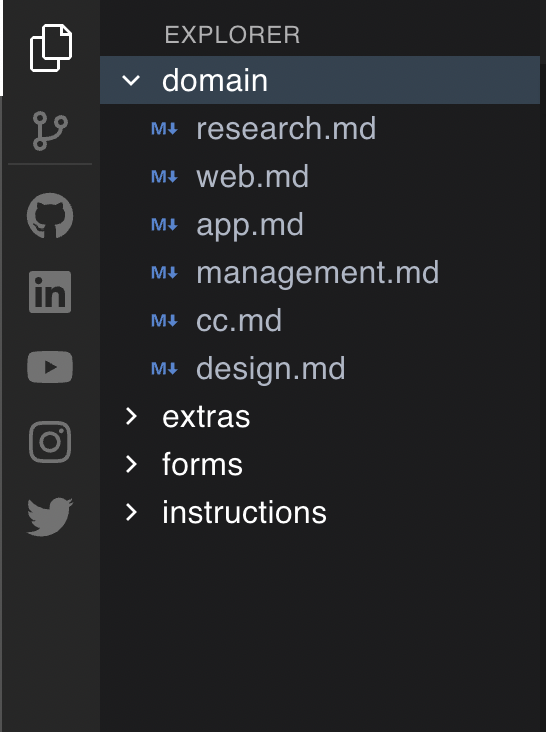
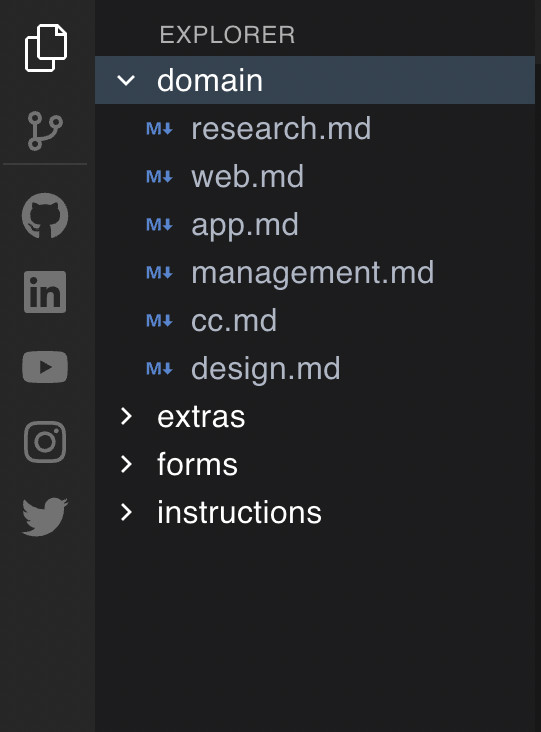
images changed

diff --git a/app/content.ts b/app/content.ts
@@ -284,7 +284,7 @@ In the bottom left corner of your screen, you will see three icons: <br>
 Your ACM journey begins with the **ACM Mainframe Terminal.** <br> <br>
 
 1. Click on the last icon \`Terminal\` on the bottom-left corner of the website. <br><br>
-![Alt text](/terminal.jpg)
+![Alt text](/terminal.png)
 
 2. As requested, you can see all the commands at your disposal using \`help\` <br><br>
 ![Alt text](/help.png)
@@ -297,6 +297,8 @@ There are 5 commands, and you've now already tested \`help\`. Here's what the re
 |\`formsubmit\` \`domain\`| You'll use this to submit your domain forms|
 |\`exit\`| If your work is done or terminal is hindering view|
 
+PS: Don't even think of typing \`board\` in the terminal :)
+<br>
 Now, to the main course... 
 
 <!-- Section ends here -->
@@ -307,6 +309,8 @@ Before filling out your forms, <b>we highly encourage</b> you to go through each
 <br>
 On the top-left corner of our website, do the following: <br>
 underneath \`EXPLORER\` -> \`domains\` -> read through all \`.md\` files.
+
+![Alt text](/domains.png)
 
 > **NOTE** <br>
 Irrespective of how many domains you apply to, if selected, you will be assigned to only one particular domain.
